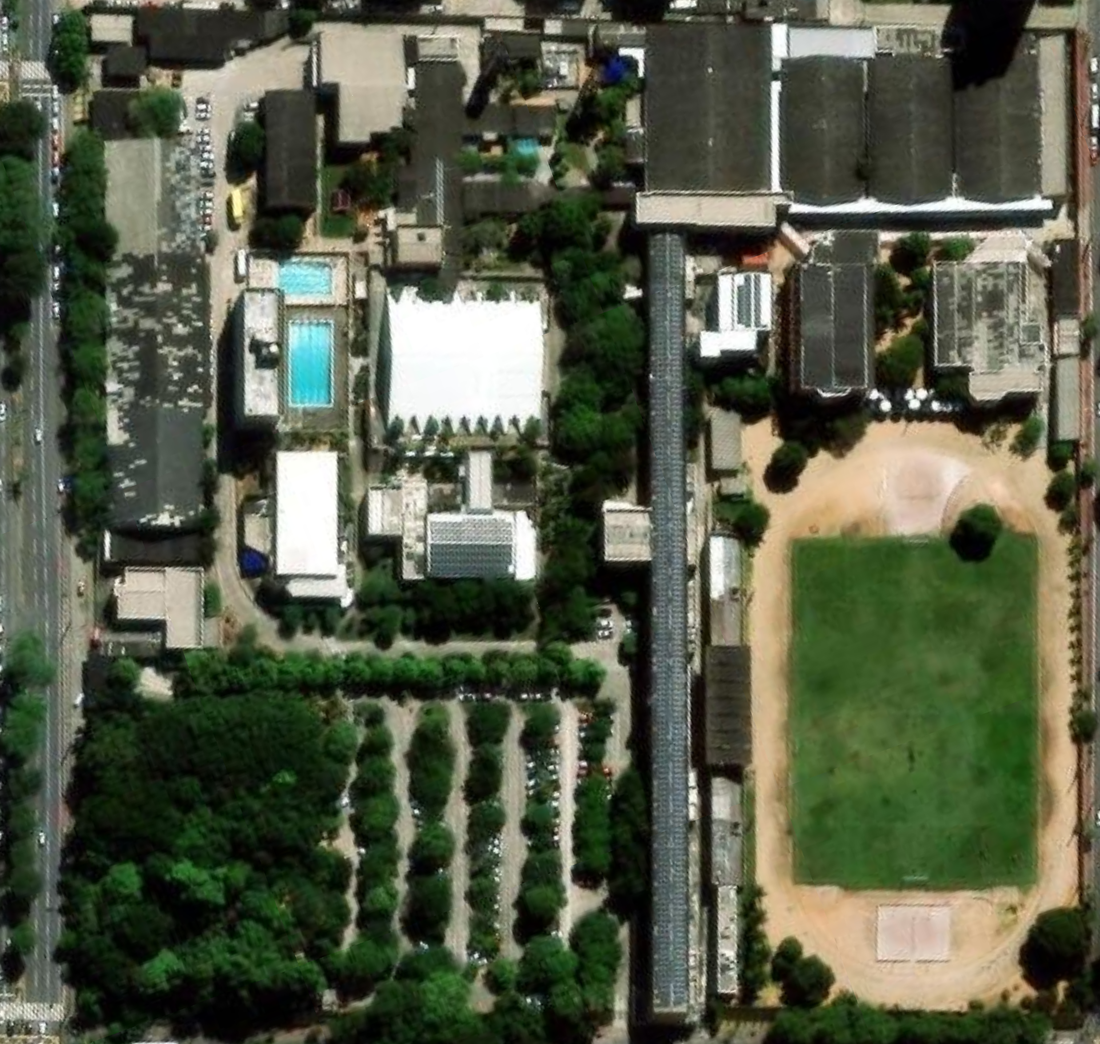
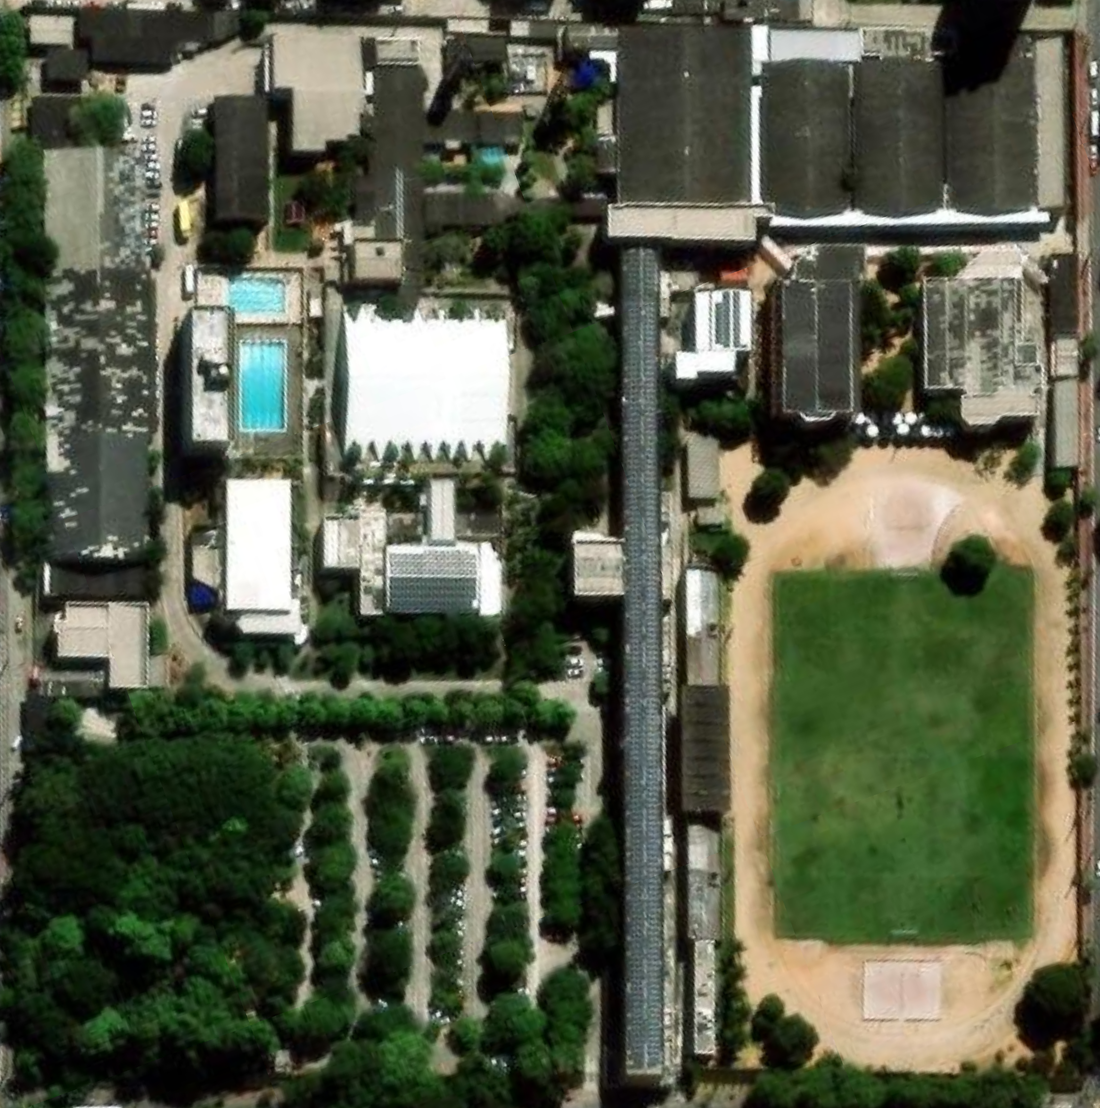
fix: corrige alinhamento dos 15 pontos no mapa do campus
As fotos "limpa" e "com os pontos marcados" recebidas não eram pixel a
pixel a mesma imagem (leve diferença de zoom/enquadramento), então a
posição calculada a partir de uma não batia com a outra. Recalcula as
posições alinhando as duas fotos por pontos de referência em comum
(piscina, telhado do ginásio) antes de converter para porcentagem, e
volta a usar a área de recorte original do retângulo verde (todos os
15 pontos cabem nela sem precisar esticar a borda).

Documenta também no README-DEPLOY.md que o console do PythonAnywhere
precisa de "export DEBUG=0" antes do collectstatic, senão os arquivos
estáticos não atualizam mesmo sem erro aparente.

diff --git a/bebedouros/views.py b/bebedouros/views.py
@@ -32,21 +32,21 @@ from .validation import avisos_para_resultado
 # pinos marcados manualmente numa cópia dessa mesma imagem. Um bebedouro
 # sem posição aqui simplesmente não aparece no mapa.
 POSICOES_MAPA = {
-    1: (33.0, 13.5),
-    2: (24.9, 16.6),
-    3: (10.9, 2.7),
-    4: (0.8, 24.6),
-    5: (1.8, 37.7),
-    6: (25.7, 45.3),
-    7: (55.9, 52.9),
-    8: (50.7, 66.0),
-    9: (50.8, 64.5),
-    10: (51.9, 33.2),
-    11: (49.2, 7.2),
-    12: (70.1, 20.1),
-    13: (77.6, 20.0),
-    14: (72.0, 25.4),
-    15: (76.8, 32.1),
+    1: (41.4, 12.7),
+    2: (32.0, 16.1),
+    3: (15.8, 1.0),
+    4: (4.1, 24.8),
+    5: (5.2, 39.1),
+    6: (33.0, 47.4),
+    7: (67.9, 55.6),
+    8: (61.9, 69.9),
+    9: (62.0, 68.3),
+    10: (63.3, 34.2),
+    11: (60.1, 5.9),
+    12: (84.3, 19.9),
+    13: (93.0, 19.8),
+    14: (86.6, 25.7),
+    15: (92.1, 33.0),
 }
 
 

diff --git a/README-DEPLOY.md b/README-DEPLOY.md
@@ -56,14 +56,21 @@ exatos dos botões podem variar um pouco.
 ### Atualizando o site depois (nova versão do código)
 No Bash console do PythonAnywhere:
 ```
-cd Sistema_IFRN_Agua
+cd sistema-ifrn-agua-bebedouros
 git pull
 source .venv/bin/activate
+export DEBUG=0
 pip install -r requirements.txt
 python manage.py migrate
 python manage.py collectstatic --noinput
 ```
 Depois clicar em "Reload" na aba Web de novo.
+
+**Importante sobre o `export DEBUG=0`:** o Bash console é uma sessão separada do site —
+ele não sabe sozinho que é produção. Sem essa linha, o `collectstatic` roda como se
+fosse ambiente de teste e não atualiza direito os arquivos estáticos (imagens, CSS),
+mesmo sem dar erro nenhum. Cole os comandos linha por linha (ou um de cada vez) — colar
+o bloco inteiro de uma vez pode corromper a primeira linha nesse console.
 
 ## Backup
 Fazer backup do arquivo `db.sqlite3` de vez em quando (ele guarda todos os
